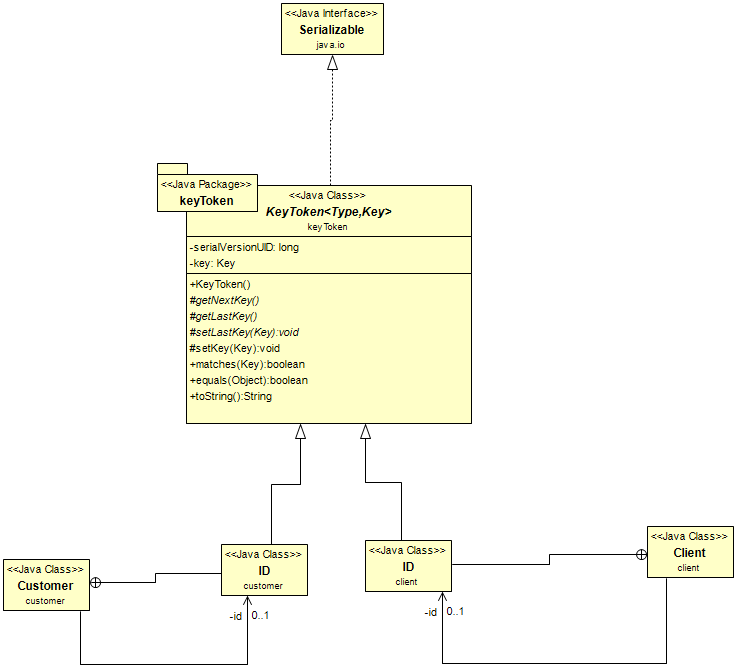
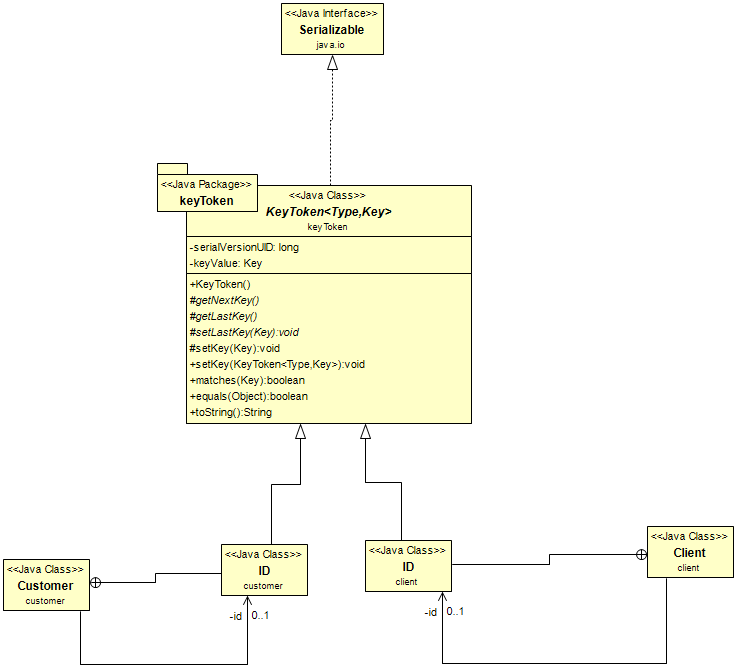
Fixed a bug with ID retention between sessions.

Changed region(s): [[0.2497, 0.5414, 0.4993, 0.6316], [0.2809, 0.391, 0.3745, 0.4211]]

diff --git a/src/uiCommands/AddPlay.java b/src/uiCommands/AddPlay.java
@@ -16,6 +16,7 @@ import userInterface.UI;
 
 /**
  * The command to add new play.
+ * 
  * @author Joshua Zierman [py1422xs@metrostate.edu]
  *
  */
@@ -28,7 +29,8 @@ public class AddPlay implements Command<UI>
 
 	/**
 	 * 
-	 * Constructs a <code>AddPlay</code> object used when creating a subtype singleton
+	 * Constructs a <code>AddPlay</code> object used when creating a subtype
+	 * singleton
 	 * 
 	 * @throws Exception
 	 *             if used to try to create a base type
@@ -54,6 +56,7 @@ public class AddPlay implements Command<UI>
 
 	/**
 	 * Gets or creates an instance of the singleton
+	 * 
 	 * @return an instance of the singleton
 	 */
 	public static AddPlay instance()
@@ -98,7 +101,9 @@ public class AddPlay implements Command<UI>
 		return instance();
 	}
 
-	/* (non-Javadoc)
+	/*
+	 * (non-Javadoc)
+	 * 
 	 * @see uiCommands.Command#call(java.lang.Object)
 	 */
 	@Override
@@ -106,6 +111,7 @@ public class AddPlay implements Command<UI>
 	{
 		Theater theater = ui.getTheater();
 		boolean done = false;
+		Client client = null;
 		while (!done)
 		{
 			try
@@ -114,74 +120,127 @@ public class AddPlay implements Command<UI>
 				String name = UI.getInput("Enter play's name: ");
 				String clientID = UI.getInput("Enter client's ID: ");
 
-				// find client from clientID
-				Client client = null;
-				for(Client c : theater.getClientList())
+				boolean doneWithID = false;
+				while (!doneWithID)
+				{
+					// find client from clientID
+					client = null;
+					try
+					{
+						for (Client c : theater.getClientList())
+						{
+							try
+							{
+								if (c.getID().matches(Long.parseLong(clientID)))
+								{
+									client = c;
+									break;
+								}
+							}
+							catch (NumberFormatException e)
+							{
+								throw new NoKeyTokenFoundException();
+							}
+						}
+						if (client == null)
+						{
+							throw new NoKeyTokenFoundException();
+						}
+						else
+						{
+							doneWithID = true;
+						}
+					}
+					catch (NoKeyTokenFoundException e)
+					{
+						// show error message
+						UI.outputError(e, "Client ID could not be matched.");
+
+						// ask if user wants to continue and end if the user
+						// answers no
+						doneWithID = !UI.tryAgainCheck();
+
+						if (doneWithID)
+						{
+							throw new Exception();
+						}
+					}
+				}
+				boolean doneWithDates = false;
+				while (!doneWithDates)
 				{
 					try
 					{
-						if (c.getID().matches(Long.parseLong(clientID)))
+						String startDateString = UI.getInput(
+								"Enter play's start date (MM/dd/yyyy): ");
+						Date startDate = new SimpleDateFormat("MM/dd/yyyy")
+								.parse(startDateString);
+
+						String endDateString = UI.getInput(
+								"Enter play's end date (MM/dd/yyyy): ");
+						Date endDate = new SimpleDateFormat("MM/dd/yyyy")
+								.parse(endDateString);
+
+						// create new play object
+						Play play = new Play(name, client, startDate, endDate);
+
+						// add to list
+						theater.add(play);
+
+					}
+					catch (ConflictingDatesException e)
+					{
+						// show error message
+						UI.outputError(e,
+								"Dates conflict with other plays in the list.");
+
+						// ask if user wants to continue and end if the user
+						// answers no
+						doneWithDates = !UI.tryAgainCheck();
+						
+						if (doneWithDates)
 						{
-							client = c;
-							break;
+							throw new Exception();
 						}
 					}
-					catch (NumberFormatException e)
+					catch(Exception e)
 					{
-						throw new NoKeyTokenFoundException();
+						// show error message
+						UI.outputError(e,
+								"There was a problem with the entered dates.");
+
+						// ask if user wants to continue and end if the user
+						// answers no
+						doneWithDates = !UI.tryAgainCheck();
+
+						if (doneWithDates)
+						{
+							throw new Exception();
+						}
 					}
 				}
-				if(client == null)
-				{
-					throw new NoKeyTokenFoundException();
-				}
-				
-				String startDateString = UI.getInput("Enter play's start date (MM/dd/yyyy): ");
-				Date startDate = new SimpleDateFormat("MM/dd/yyyy").parse(startDateString);
-				
-				String endDateString = UI.getInput("Enter play's end date (MM/dd/yyyy): ");
-				Date endDate = new SimpleDateFormat("MM/dd/yyyy").parse(endDateString);
-				
-				// create new play object
-				Play play = new Play(name, client, startDate, endDate);
-				
-				// add to list
-				theater.add(play);
-				
 				// show user that it was added
 				UI.outputSuccessMessage(name + " added to play list.");
-				
+
 				// ask if user wants to continue and end if the user answers no
 				done = !UI.yesCheck("Add another play?");
+
 			}
-			catch (NoKeyTokenFoundException e)
-			{
-				// show error message
-				UI.outputError(e, "Client ID could not be matched.");
-				
-				// ask if user wants to continue and end if the user answers no
-				done = !UI.tryAgainCheck();
-			}
-			catch (ConflictingDatesException e)
-			{
-				// show error message
-				UI.outputError(e, "Dates conflict with other plays in the list.");
-				
-				// ask if user wants to continue and end if the user answers no
-				done = !UI.tryAgainCheck();
-			}
+
 			catch (Exception e)
 			{
 				// show error message
 				UI.outputError(e, "Unable to add play");
-				
+
 				// ask if user wants to continue and end if the user answers no
 				done = !UI.tryAgainCheck();
 			}
 		}
 	}
 
-	/* (non-Javadoc)
+	/*
+	 * (non-Javadoc)
+	 * 
 	 * @see uiCommands.Command#isTerminationCommand()
 	 */
 	@Override

diff --git a/src/keyToken/KeyToken.java b/src/keyToken/KeyToken.java
@@ -18,15 +18,15 @@ public abstract class KeyToken <Type, Key> implements Serializable
 	/**
 	 * The actual key value 
 	 */
-	private Key key;
+	private Key keyValue;
 	
 	/**
 	 * Constructs a new Key Value
 	 */
 	public KeyToken()
 	{
-		key = getNextKey();
-		setLastKey(key);
+		keyValue = getNextKey();
+		setLastKey(keyValue);
 	}
 	
 	/**
@@ -53,7 +53,17 @@ public abstract class KeyToken <Type, Key> implements Serializable
 	 */
 	protected void setKey(Key key)
 	{
-		this.key = key;
+		this.keyValue = key;
+		setLastKey(this.keyValue);
+	}
+	
+	/**
+	 * Sets the key 
+	 * @param key a key value
+	 */
+	public void setKey(KeyToken<Type, Key> keyToken)
+	{
+		setKey(keyToken.keyValue);
 	}
 	
 	/**
@@ -63,7 +73,7 @@ public abstract class KeyToken <Type, Key> implements Serializable
 	 */
 	public boolean matches(Key key)
 	{
-		return this.key.equals(key);
+		return this.keyValue.equals(key);
 	}
 	
 	/* (non-Javadoc)
@@ -81,6 +91,6 @@ public abstract class KeyToken <Type, Key> implements Serializable
 	@Override
 	public String toString()
 	{
-		return getClass().getName() + key;
+		return getClass().getName() + keyValue;
 	}
 }

diff --git a/src/client/ClientList.java b/src/client/ClientList.java
@@ -305,6 +305,7 @@ public class ClientList implements ReadResolveable<ClientList>, KeyedList<Client
 		for(Client c : tmp)
 		{
 			instance().add(c);
+			c.getID().setKey(c.getID());
 		}
 	}
 
